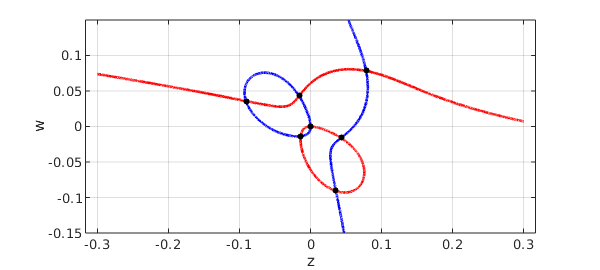
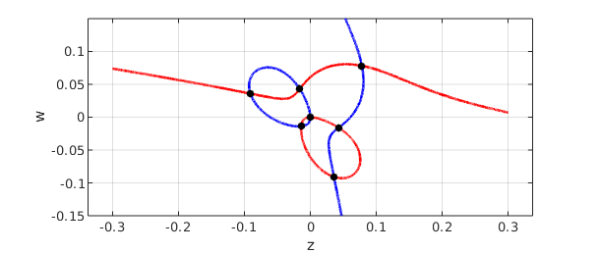
updates to Subramanian example

diff --git a/examples/roots/Subramanian.html b/examples/roots/Subramanian.html
@@ -61,15 +61,16 @@
     <div class="container">
 <div class="row main">
 <div id='content' class="col-sm-12 example" role="main">
-<p>Priya Subramanian at Oxford is interested in the patterns that arise in nonlinear reaction-diffusion PDEs such as the Swift-Hohenberg equation and its relatives [2,3].  A particular interest of hers is cases where the patterns may have quasicrystalline structure.</p>
+<p>Priya Subramanian at Oxford is interested in the patterns that arise in nonlinear reaction-diffusion PDEs such as the Swift-Hohenberg equation and its relatives [2,3,4].  A particular interest of hers is cases where the patterns may have quasicrystalline structure.</p>
 <p>In her analysis, systems of polynomial equations arise whose roots need to be computed.  She uses the Bertini software for this, based on a homotopy method [1].  Sometimes there are just two independent variables, however, and this gives nice problems for Chebfun2 (chapter 14 of the <em>Chebfun Guide</em>).</p>
 <p>Here is one of her examples.  We have parameters $Q$, $\mu$, and $\nu$, for which reasonable parameters are these:</p>
 <pre class="mcode-input">Q = 1;
 mu = 0.1;
 nu = 0.1;</pre>
 
-<p>The independent variables are called $z$ and $w$, and here are the two cubic polynomials in these variables of interest:</p>
-<pre class="mcode-input">dom = [-.3 .3 -.15 .15];
+<p>The independent variables are called $z$ and $w$, and here are the two cubic polynomials of interest:</p>
+<pre class="mcode-input">tic
+dom = [-.3 .3 -.15 .15];
 z = chebfun2(@(z,w) z, dom);
 w = chebfun2(@(z,w) w, dom);
 p = mu*z + 2*Q*w.^2 + 4*Q*w.*z - 6*w.^3 - 42*w.^2.*z - 18*w.*z.^2 - 27*z.^3;
@@ -80,7 +81,7 @@ q = nu*w + 4*Q*w.*z + 2*Q*z.^2 - 27*w.^3 - 18*w.^2.*z - 42*w.*z.^2 - 6*z.^3;</pr
 plot(roots(p),'b',LW,2), hold on, grid on
 plot(roots(q),'r',LW,2)
 r = roots(p,q)
-plot(r(:,1),r(:,2),'.k',MS,16), axis equal, hold off
+plot(r(:,1),r(:,2),'.k',MS,20), axis equal, hold off
 xlabel z, ylabel w</pre>
 
 <pre class="mcode-output">r =
@@ -101,7 +102,7 @@ plot(roots(p),'b',LW,2), hold on, grid on
 plot(roots(q),'r',LW,2)
 r = roots(p,q)
 MS = 'markersize';
-plot(r(:,1),r(:,2),'.k',MS,16), axis equal, hold off
+plot(r(:,1),r(:,2),'.k',MS,20), axis equal, hold off
 xlabel z, ylabel w</pre>
 
 <pre class="mcode-output">r =
@@ -111,9 +112,16 @@ xlabel z, ylabel w</pre>
 </pre>
 
 <p><img src="img/Subramanian_02.png" class="figure" alt=""></p>
-<p>[1] D. J. Bates, J. D. Hauenstein, A. J. Sommese and C. W. Wampler, <em>Numerically Solving Polynomial Systems with Bertini</em>, SIAM, 2013.</p>
+<pre class="mcode-input">Time_for_this_example = toc</pre>
+
+<pre class="mcode-output">Time_for_this_example =
+   3.376301000000000
+</pre>
+
+<p>[1] D. J. Bates, J. D. Hauenstein, A. J. Sommese, and C. W. Wampler, <em>Numerically Solving Polynomial Systems with Bertini</em>, SIAM, 2013.</p>
 <p>[2] H. Montanelli, Swift-Hohenberg equation in 2D, <code>www.chebfun.org/examples/pde/SwiftHohenberg.html</code>.</p>
-<p>[3] P. Subramanian, reference to be supplied.</p></div>
+<p>[3] P. Subramanian, A. J. Archer, E. Knobloch, and A. M. Rucklidge, Three-dimensional phase field quasicrystals, <em>Physical Review Letters</em> 117:1075501, 2016.</p>
+<p>[3] P. Subramanian and A. M. Rucklidge, Mode interactions and complex spatial patterns II. Quasicrystals, in preparation.</p></div>
         </div>
     </div>
 </div>

diff --git a/examples/roots/img/Subramanian.html b/examples/roots/img/Subramanian.html
@@ -5,7 +5,7 @@ authordate: "Nick Trefethen, October 2019"
 meta: "(Chebfun example roots/Subramanian.m) [Tags: #ROOTS]"
 ---
 
-Priya Subramanian at Oxford is interested in the patterns that arise in nonlinear reaction-diffusion PDEs such as the Swift-Hohenberg equation and its relatives [2,3].  A particular interest of hers is cases where the patterns may have quasicrystalline structure.
+Priya Subramanian at Oxford is interested in the patterns that arise in nonlinear reaction-diffusion PDEs such as the Swift-Hohenberg equation and its relatives [2,3,4].  A particular interest of hers is cases where the patterns may have quasicrystalline structure.
 
 In her analysis, systems of polynomial equations arise whose roots need to be computed.  She uses the Bertini software for this, based on a homotopy method [1].  Sometimes there are just two independent variables, however, and this gives nice problems for Chebfun2 (chapter 14 of the _Chebfun Guide_).
 
@@ -13,9 +13,10 @@ Here is one of her examples.  We have parameters $Q$, $\mu$, and $\nu$, for whic
 
 <pre class="mcode-input">Q = 1;
 mu = 0.1;
-nu = 0.1;</pre>The independent variables are called $z$ and $w$, and here are the two cubic polynomials in these variables of interest:
+nu = 0.1;</pre>The independent variables are called $z$ and $w$, and here are the two cubic polynomials of interest:
 
-<pre class="mcode-input">dom = [-.3 .3 -.15 .15];
+<pre class="mcode-input">tic
+dom = [-.3 .3 -.15 .15];
 z = chebfun2(@(z,w) z, dom);
 w = chebfun2(@(z,w) w, dom);
 p = mu*z + 2*Q*w.^2 + 4*Q*w.*z - 6*w.^3 - 42*w.^2.*z - 18*w.*z.^2 - 27*z.^3;
@@ -25,7 +26,7 @@ q = nu*w + 4*Q*w.*z + 2*Q*z.^2 - 27*w.^3 - 18*w.^2.*z - 42*w.*z.^2 - 6*z.^3;</pr
 plot(roots(p),'b',LW,2), hold on, grid on
 plot(roots(q),'r',LW,2)
 r = roots(p,q)
-plot(r(:,1),r(:,2),'.k',MS,16), axis equal, hold off
+plot(r(:,1),r(:,2),'.k',MS,20), axis equal, hold off
 xlabel z, ylabel w</pre><pre class="mcode-output">r =
   -0.090831644586318   0.035835847280723
   -0.016094658586370   0.042959596438007
@@ -44,16 +45,20 @@ plot(roots(p),'b',LW,2), hold on, grid on
 plot(roots(q),'r',LW,2)
 r = roots(p,q)
 MS = 'markersize';
-plot(r(:,1),r(:,2),'.k',MS,16), axis equal, hold off
+plot(r(:,1),r(:,2),'.k',MS,20), axis equal, hold off
 xlabel z, ylabel w</pre><pre class="mcode-output">r =
   -0.000000000000000  -0.000000000000000
    0.025417412018832  -0.086077285970434
    0.050811642467768   0.080598330616729
 </pre><img src="img/Subramanian_02.png" class="figure" alt="">
 
-[1] D. J. Bates, J. D. Hauenstein, A. J. Sommese and C. W. Wampler, _Numerically Solving Polynomial Systems with Bertini_, SIAM, 2013.
+<pre class="mcode-input">Time_for_this_example = toc</pre><pre class="mcode-output">Time_for_this_example =
+   3.376301000000000
+</pre>[1] D. J. Bates, J. D. Hauenstein, A. J. Sommese, and C. W. Wampler, _Numerically Solving Polynomial Systems with Bertini_, SIAM, 2013.
 
 [2] H. Montanelli, Swift-Hohenberg equation in 2D, `www.chebfun.org/examples/pde/SwiftHohenberg.html`.
 
-[3] P. Subramanian, reference to be supplied.
+[3] P. Subramanian, A. J. Archer, E. Knobloch, and A. M. Rucklidge, Three-dimensional phase field quasicrystals, _Physical Review Letters_ 117:1075501, 2016.
+
+[3] P. Subramanian and A. M. Rucklidge, Mode interactions and complex spatial patterns II. Quasicrystals, in preparation.
 

diff --git a/index.html b/index.html
@@ -269,5 +269,5 @@ plot(minx(1),minx(2),'.w')
     <script type="text/javascript" src="/js/config.js"></script>
     <script type="text/javascript" src="/js/jquery.flexslider-min.js"></script>
   </body>
-<!-- Compiled on Tuesday, 29 October 2019 at 16:21. -->
+<!-- Compiled on Tuesday, 29 October 2019 at 16:40. -->
 </html>

diff --git a/examples/roots/Subramanian.m b/examples/roots/Subramanian.m
@@ -8,7 +8,7 @@
 %%
 % Priya Subramanian at Oxford is interested in the 
 % patterns that arise in nonlinear reaction-diffusion PDEs such
-% as the Swift-Hohenberg equation and its relatives [2,3].  A particular
+% as the Swift-Hohenberg equation and its relatives [2,3,4].  A particular
 % interest of hers is cases where the patterns may have quasicrystalline
 % structure.  
 
@@ -28,7 +28,8 @@ nu = 0.1;
 
 %%
 % The independent variables are called $z$ and $w$, and 
-% here are the two cubic polynomials in these variables of interest:
+% here are the two cubic polynomials of interest:
+tic
 dom = [-.3 .3 -.15 .15];
 z = chebfun2(@(z,w) z, dom);
 w = chebfun2(@(z,w) w, dom);
@@ -42,7 +43,7 @@ MS = 'markersize'; LW = 'linewidth';
 plot(roots(p),'b',LW,2), hold on, grid on
 plot(roots(q),'r',LW,2)
 r = roots(p,q)
-plot(r(:,1),r(:,2),'.k',MS,16), axis equal, hold off
+plot(r(:,1),r(:,2),'.k',MS,20), axis equal, hold off
 xlabel z, ylabel w
 
 %%
@@ -53,16 +54,24 @@ plot(roots(p),'b',LW,2), hold on, grid on
 plot(roots(q),'r',LW,2)
 r = roots(p,q)
 MS = 'markersize';
-plot(r(:,1),r(:,2),'.k',MS,16), axis equal, hold off
+plot(r(:,1),r(:,2),'.k',MS,20), axis equal, hold off
 xlabel z, ylabel w
+
+%%
+Time_for_this_example = toc
 
 %% 
 %
-% [1] D. J. Bates, J. D. Hauenstein, A. J. Sommese and
+% [1] D. J. Bates, J. D. Hauenstein, A. J. Sommese, and
 % C. W. Wampler, _Numerically Solving Polynomial Systems with
 % Bertini_, SIAM, 2013.
 %
 % [2] H. Montanelli, Swift-Hohenberg equation in 2D,
 % |www.chebfun.org/examples/pde/SwiftHohenberg.html|.
 %
-% [3] P. Subramanian, reference to be supplied.
+% [3] P. Subramanian, A. J. Archer, E. Knobloch, and A. M. Rucklidge,
+% Three-dimensional phase field quasicrystals, 
+% _Physical Review Letters_ 117:1075501, 2016.
+%
+% [3] P. Subramanian and A. M. Rucklidge, Mode interactions and
+% complex spatial patterns II. Quasicrystals, in preparation.
